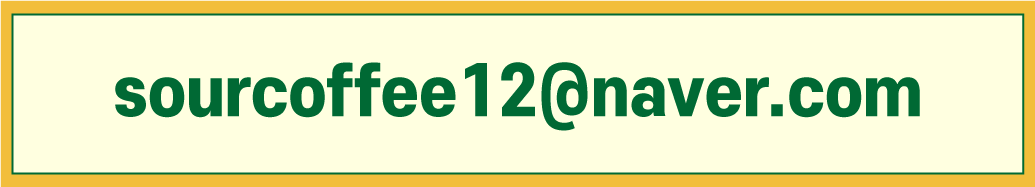
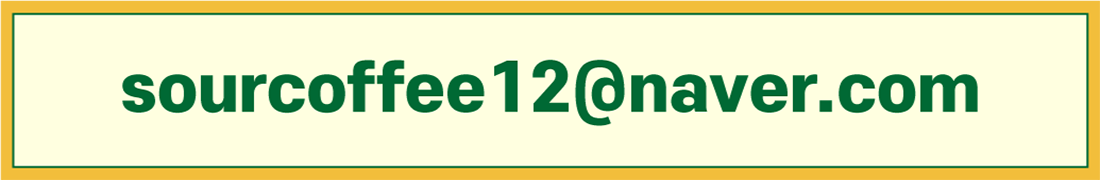
midia

diff --git a/media_query.css b/media_query.css
@@ -83,6 +83,9 @@
         display: block;
         margin: 10px auto 1px auto;
     }
+    .toptop{
+        margin: 10px auto 70px auto;
+    }
     hr{
         border: none;
     }
@@ -347,10 +350,17 @@
         padding: 0 -2px -2px 0;
     }
     .map-text{
-        padding: 0 120px 0 120px;
+        padding: 0 120px 0 0;
+        font-size: 20px;
+    }
+    .map-text_2{
+        font-size: 20px;
+    }
+    .map-text_3{
+        font-size: 20px;
     }
     .map-text-green{
-        padding: 0 120px 0 120px;
+        padding: 0 120px 0 -10px;
         color: #006934;
         font-size: 20px;
     }
@@ -364,34 +374,121 @@
         margin: 0;
     }
     /* moving text */
-.animated-title2{
-    font-size: 30px;
-    font-weight: 800;
-    color: #006934;
-    position: relative;
-    width: 100%;
-    max-width: 100%;
-    height: 40px;
-    overflow-x: hidden;
-    overflow-y: hidden;
-    margin: 0;
-    white-space: nowrap;
-    display: block;
-}
-.animated-title2 .track2{
-    position: absolute;
-    white-space: nowrap;
-    will-change: transform;
-    animation: marquee 20s linear infinite;
-}
-@keyframes marquee {
-    from {transform: translateX(0);}
-    to {transform: translateX(-50%);}
-}
-@media (hover: hover) and (min-width: 1200px){
-    .animated-title2 .content2{
-        -wedkit-transform: translateY(calc(100% - 8rem));
-        transform: translateY(calc(100% - 5.1rem));
+    .animated-title2{
+        font-size: 30px;
+        font-weight: 800;
+        color: #006934;
+        position: relative;
+        width: 100%;
+        max-width: 100%;
+        height: 40px;
+        overflow-x: hidden;
+        overflow-y: hidden;
+        margin: 0;
+        white-space: nowrap;
+        display: block;
+    }
+    .animated-title2 .track2{
+        position: absolute;
+        white-space: nowrap;
+        will-change: transform;
+        animation: marquee 20s linear infinite;
+    }
+    @keyframes marquee {
+        from {transform: translateX(0);}
+        to {transform: translateX(-50%);}
+    }
+    @media (hover: hover) and (min-width: 1200px){
+        .animated-title2 .content2{
+            -wedkit-transform: translateY(calc(100% - 8rem));
+            transform: translateY(calc(100% - 5.1rem));
+        }
+    }
+    .blank_2{
+        padding: 60px 0 0 0;
+        width: 50%;
     }
 }
+/* ---------------------------Question page------------------------ */
+@media screen and (max-width: 1000px){
+    .question-table{
+        border: 1px solid #006934;
+        margin: 10px 0 0 0;
+        border-collapse:collapse;
+    }
+    .question-table2{
+        border: 1px solid #006934;
+        margin: 50px 0 -200px 0;
+        border-collapse:collapse;
+    }
+    .telephone{
+        padding: 3px 20px 3px 20px;
+    }
+    .telephone img{
+        width: 50px;
+    }
+    .telephone-img img{
+        margin: 0 10px 0 10px;
+        width: 80px;
+    }
+    .numder{
+        color: #f2be3b;
+        font-size: 60px;
+        padding: 30px 25px 30px 25px;
+        font-weight: 1000;
+        font-family:'S-CoreDream-8heady';
+    }
+    .time{
+        font-family:'S-CoreDream-8heady';
+        font-size: 24px;
+        font-weight: 800;
+        white-space: nowrap;
+        padding: 0 105px 0 105px;
+    }
+    .time-text{
+        font-family:'S-CoreDream-8heady';
+        font-size: 20px;
+    }
+    td.email-2{
+        text-align: center;
+        padding: 7px 7px 2px 7px;
+        margin: 0px;
+        background-size: cover;
+    }
+    td.email-2 img{
+        width: 600px;
+    }
+    .email-text{
+       padding: 10px;
+    }
+    .email-text img{
+        width: 70px;
+     }
+    .email-img img{
+        margin: 0;
+        width: 90px;
+    }
+    .email-text2{
+        font-family:'S-CoreDream-8heady';
+        font-size: 20px;
+        white-space: nowrap;
+    }
+    .get_off{
+        display: block;
+    }
+}
+/* ---------------------------WORLD COFFEE BEAN------------------------ */
+@media screen and (max-width: 1000px){
+    .world-img1 img, .world-img2 img{
+        width: 650px;
+    }
+    .world-img img{
+        width: 650px;
+    }
+    .world-bean{
+        margin: -3px -1px 0 -1px;
+    }
+    .world-bean img{
+        width: 650px;
+    }
 }

diff --git a/question.html b/question.html
@@ -41,20 +41,20 @@
             <h1>문의 사항이 있나요?</h1><h2>아래의 번호로 연락 주세요!</h2>
     
     <table class="question-table">
-     <tr>
+     <tr class="none">
         <td class="blank"></td>
         <td colspan="3"></td>
         <td class="blank"></td>
     </tr>
     <tr>
         <td rowspan="2"></td>
-        <td rowspan="3" class="telephone"><img src="./web_image/telephone.png" width="80px" height="500px" alt="telephone.png"></td>
+        <td rowspan="3" class="telephone"><img src="./web_image/telephone.png" alt="telephone.png"></td>
         <td colspan="2" bgcolor="#006934" class="numder">1666 - 0123</td>
         <td rowspan="2"></td>
     </tr>
     <tr>
         <td><div class="time">운영 시간 : 평일 09 : 00 - 18 : 00</div></td>
-        <td rowspan="2" bgcolor="#f2be3b" class="telephone-img"><img src="./web_image/phone.png" width="130px" height="150px" alt="phone.png"></td>
+        <td rowspan="2" bgcolor="#f2be3b" class="telephone-img"><img src="./web_image/phone.png" alt="phone.png"></td>
     </tr>
     <tr>
         <td class="blank3"></td>
@@ -67,17 +67,17 @@
     <table class="question-table2">
        <tr>
             <td class="blank2"></td>
-           <td rowspan="2" class="email-text"><img src="./web_image/e-mail.png" width="80px" height="250px" alt="e-mail.png"></td>
-           <td colspan="2" class="email-2" bgcolor="#f2be3b"><img src="./web_image/email-text.png" width="1100px" height="180px" alt="email-text.png"></td>
+           <td rowspan="2" class="email-text"><img src="./web_image/e-mail.png" alt="e-mail.png"></td>
+           <td colspan="2" class="email-2" bgcolor="#f2be3b"><img src="./web_image/email-text.png" alt="email-text.png"></td>
            <td class="blank2"></td>
        </tr>
        <tr>
             <td class="blank2"></td>
-            <td bgcolor="#006934" class="email-img"><img src="./web_image/email.png" width="120px" height="120px" alt="email.png"></td>
-            <td class="email-text2">궁금한 내용을 문의하시면 최대한 빠르게 답변드리도록 하겠습니다.</td>
+            <td bgcolor="#006934" class="email-img"><img src="./web_image/email.png" alt="email.png"></td>
+            <td class="email-text2">궁금한 내용을 문의하시면 <span class="get_off">최대한 빠르게 답변드리도록 하겠습니다.</span></td>
             <td class="blank"></td>
        </tr>
-       <tr>
+       <tr class="none">
             <td class="blank"></td>
         <td colspan="3"></td>
         <td class="blank" style="border-bottom: none;"></td>

diff --git a/cafe-map.html b/cafe-map.html
@@ -63,7 +63,7 @@
             <td bgcolor="#f2be3b"><div class="map-text-green2">TEL : 053-0101-2323</div></td>
         </tr>
         <tr>
-            <td class="blank"></td>
+            <td class="blank_2"></td>
             <td colspan="2">
 
                 <div class="animated-title2">
@@ -74,23 +74,23 @@
                 </div>
 
             </td>
-            <td class="blank"></td>
+            <td class="blank_2"></td>
         </tr>
         <tr>
             <td rowspan="3"></td>
             <td rowspan="3"><div class="daegu-img"><img src="./web_image/gwang-ju_image5.jpg" alt="gwang-ju_image.png"></div></td>
-            <td bgcolor="#006934" class="map-text"><strong>광주 광복마을점</strong><br>Gwang-ju Gwangbok village<br>
+            <td bgcolor="#006934" class="map-text_3"><strong>광주 광복마을점</strong><br>Gwang-ju Gwangbok village<br>
             <br><br>광주 남구 광복마을7길</td>
             <td rowspan="3"></td>
         </tr>
-        <tr>
+        <tr class="map-text_2">
             <td bgcolor="#006934">연중무휴<br><strong>09:00 - 20:00</strong></td>
         </tr>
-        <tr>
+        <tr class="map-text_2">
             <td bgcolor="#006934">TEL : 062-0101-2323</td>
         </tr>
         <tr>
-            <td class="blank"></td>
+            <td class="blank_2"></td>
             <td colspan="2">
 
                 <div class="animated-title2">
@@ -101,20 +101,20 @@
                 </div>
 
             </td>
-            <td class="blank"></td>
+            <td class="blank_2"></td>
         </tr>
 
         <tr>
             <td rowspan="3"></td>
             <td rowspan="3"><div class="daegu-img"><img src="./web_image/daejeon_image5.jpg" width="1208x" height="810px" alt="daejeon_image.png"></div></td>
-            <td bgcolor="#006934" class="map-text"><strong>대전 새둑점</strong><br>Daejeon Saeduk<br>
+            <td bgcolor="#006934" class="map-text_3"><strong>대전 새둑점</strong><br>Daejeon Saeduk<br>
             <br><br>대전광역시 동구 새둑길</td>
             <td rowspan="3"></td>
         </tr>
-        <tr>
+        <tr class="map-text_2">
             <td bgcolor="#006934">연중무휴<br><strong>09:00 - 20:00</strong></td>
         </tr>
-        <tr>
+        <tr class="map-text_2">
             <td bgcolor="#006934">TEL : 042-0101-2323</td>
         </tr>
     </table>

diff --git a/coffee-bean.html b/coffee-bean.html
@@ -64,7 +64,7 @@
             <td class="blank2">&nbsp;</td>
         </tr>
 
-        <tr>
+        <tr class="none">
             <td class="blank2">&nbsp;</td>
             <td><img src="./web_image/blank.png" alt="blank.png"></td>
             <td class="blank2">&nbsp;</td>

diff --git a/media_query_green.css b/media_query_green.css
@@ -71,6 +71,9 @@
         max-width: 40%;
         height: auto;
     }
+    .toptop{
+        margin: 10px auto 70px auto;
+    }
 }
 @media screen and (max-width: 1000px){
     /*---bottom line + bottom information---*/
